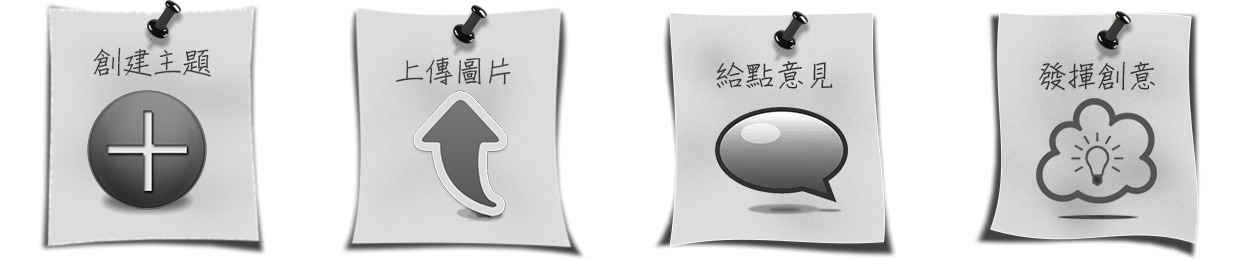
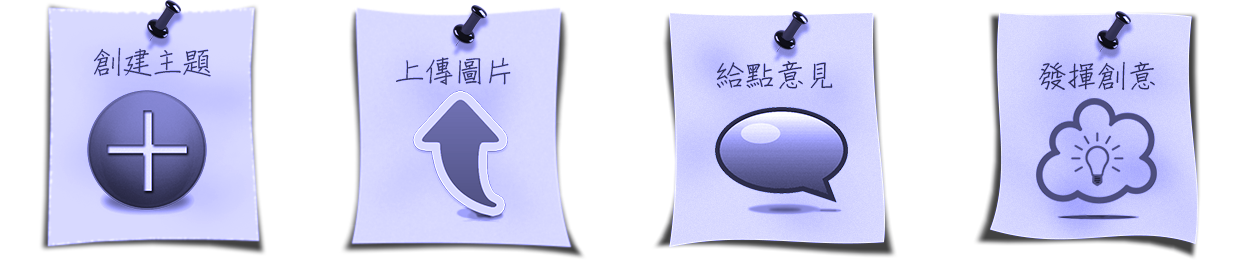
last

diff --git a/public/css/bootstrap.css b/public/css/bootstrap.css
@@ -3612,11 +3612,11 @@ input[type="submit"].btn.btn-mini {
   padding-left: 20px;
   padding-right: 20px;
   background-color: #d44413;
-  background-image: -moz-linear-gradient(top, #AFAFAF, #3F3F3F);
-  background-image: -webkit-gradient(linear, 0 0, 0 100%, from(#AFAFAF), to(#3F3F3F));
-  background-image: -webkit-linear-gradient(top, #AFAFAF, #3F3F3F);
-  background-image: -o-linear-gradient(top, #AFAFAF, #3F3F3F);
-  background-image: linear-gradient(to bottom, #AFAFAF, #3F3F3F);
+  background-image: -moz-linear-gradient(top, #AFAFAF, #001F61);
+  background-image: -webkit-gradient(linear, 0 0, 0 100%, from(#AFAFAF), to(#001F61));
+  background-image: -webkit-linear-gradient(top, #AFAFAF, #001F61);
+  background-image: -o-linear-gradient(top, #AFAFAF, #001F61);
+  background-image: linear-gradient(to bottom, #AFAFAF, #001F61);
   background-repeat: repeat-x;
   filter: progid:DXImageTransform.Microsoft.gradient(startColorstr='#ffce4213', endColorstr='#ffdd4814', GradientType=0);
   border: 1px solid black;

diff --git a/public/stylesheets/style.css b/public/stylesheets/style.css
@@ -3,7 +3,10 @@ body {
   font: 14px "Lucida Grande", Helvetica, Arial, sans-serif;
 }
 a {
-  color: #525252;
+  color: #00005A;
+}
+a:hover {
+	color: #818181;
 }
 .cover_photo{
 	margin-top: 50px;
